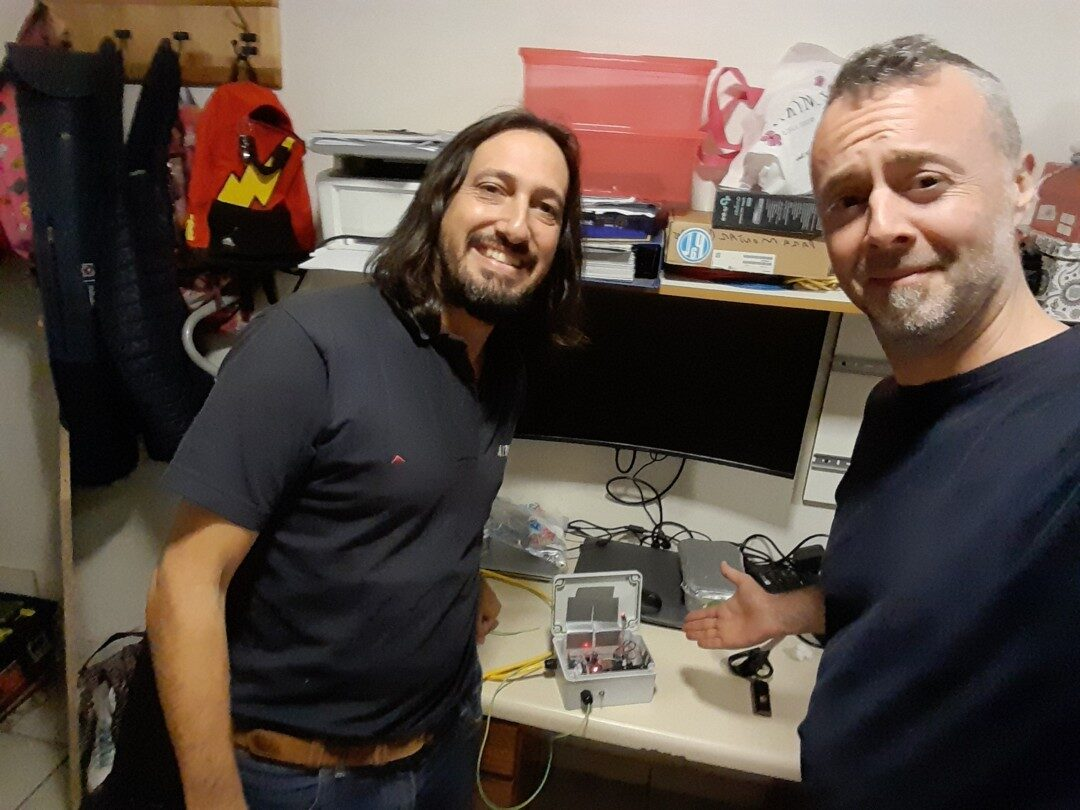
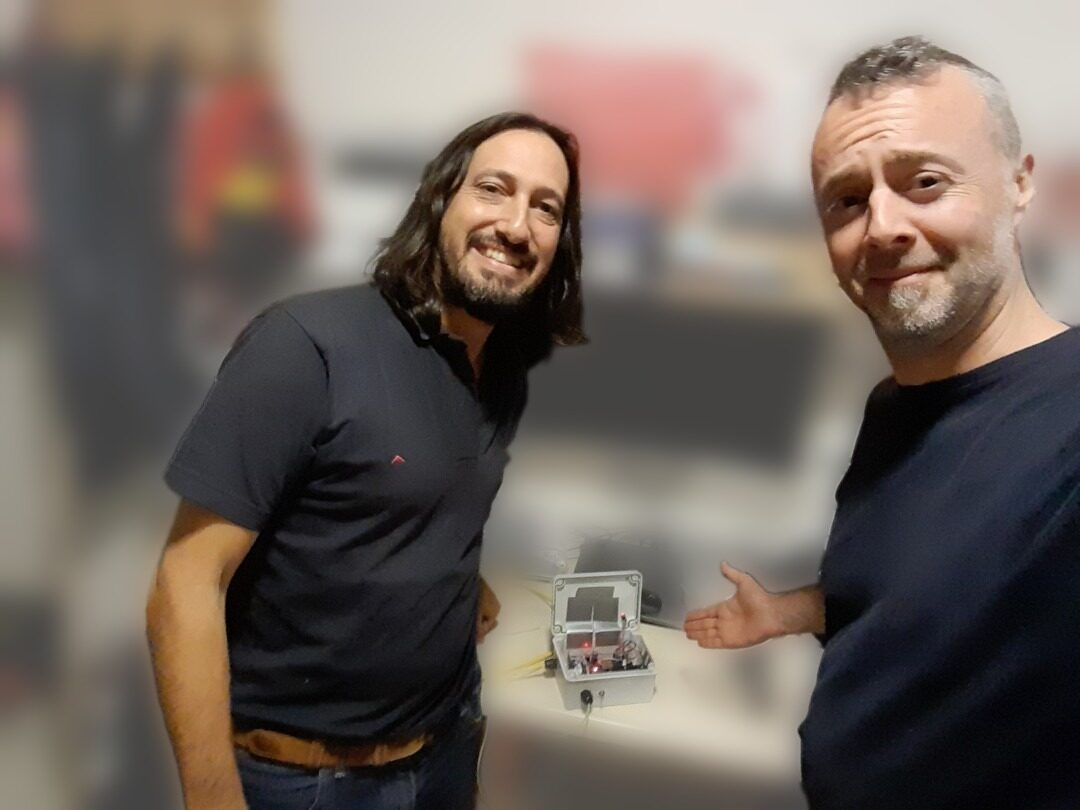
feat: product photos without background

diff --git a/content/es/productos/argos.md b/content/es/productos/argos.md
@@ -2,7 +2,7 @@
 title: "Argos 1000: vigilancia remota de variables en el campo"
 weight: 1
 # Photo from static/images/
-image: argos.jpg
+image: argos.webp
 image_alt: "Equipo Argos 1000 con el logo de GPS Electronics"
 ---
 Equipo autónomo de monitoreo remoto para variables analógicas: tensión de un alambrado eléctrico, temperatura en silos de granos, niveles de agua, tensiones y más, con distintos sensores. Reporta por SMS a través de la red GSM: informa el estado cuando se lo consulta y envía una alarma cuando un valor supera los umbrales configurados.

diff --git a/content/es/productos/io-extender-104.md b/content/es/productos/io-extender-104.md
@@ -2,7 +2,7 @@
 title: "IO Extender 104: entradas y salidas a distancia por LoRa"
 weight: 2
 # Photo from static/images/
-image: io-extender.jpg
+image: io-extender.webp
 image_alt: "IO Extender 104 abierto, con la electrónica y el logo de GPS Electronics"
 ---
 Dos equipos, maestro y esclavo, replican entradas y salidas digitales a distancia por radio LoRa, sin tender cables.
